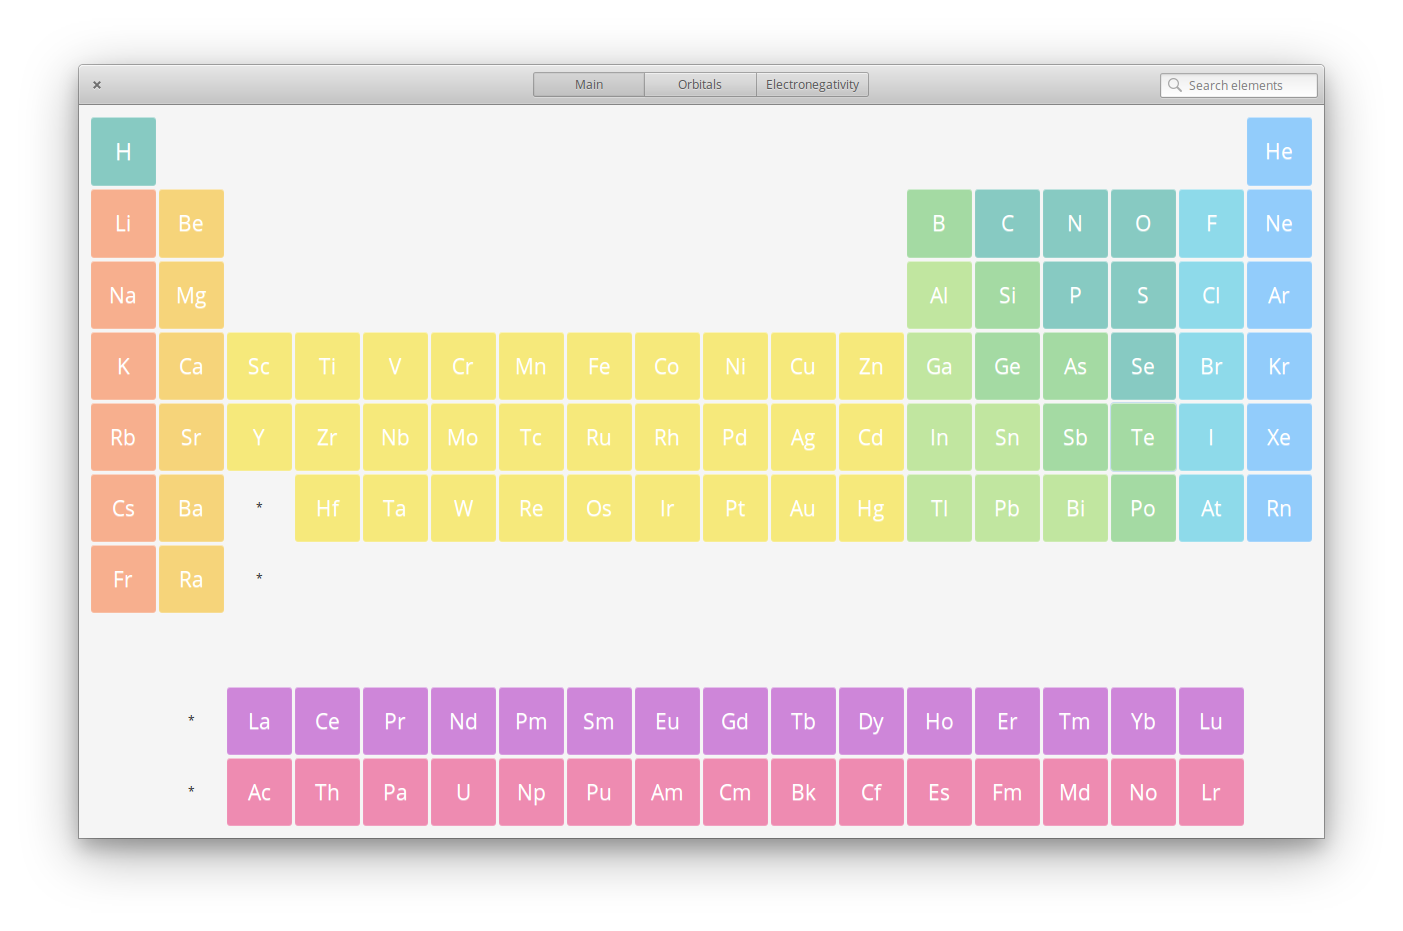
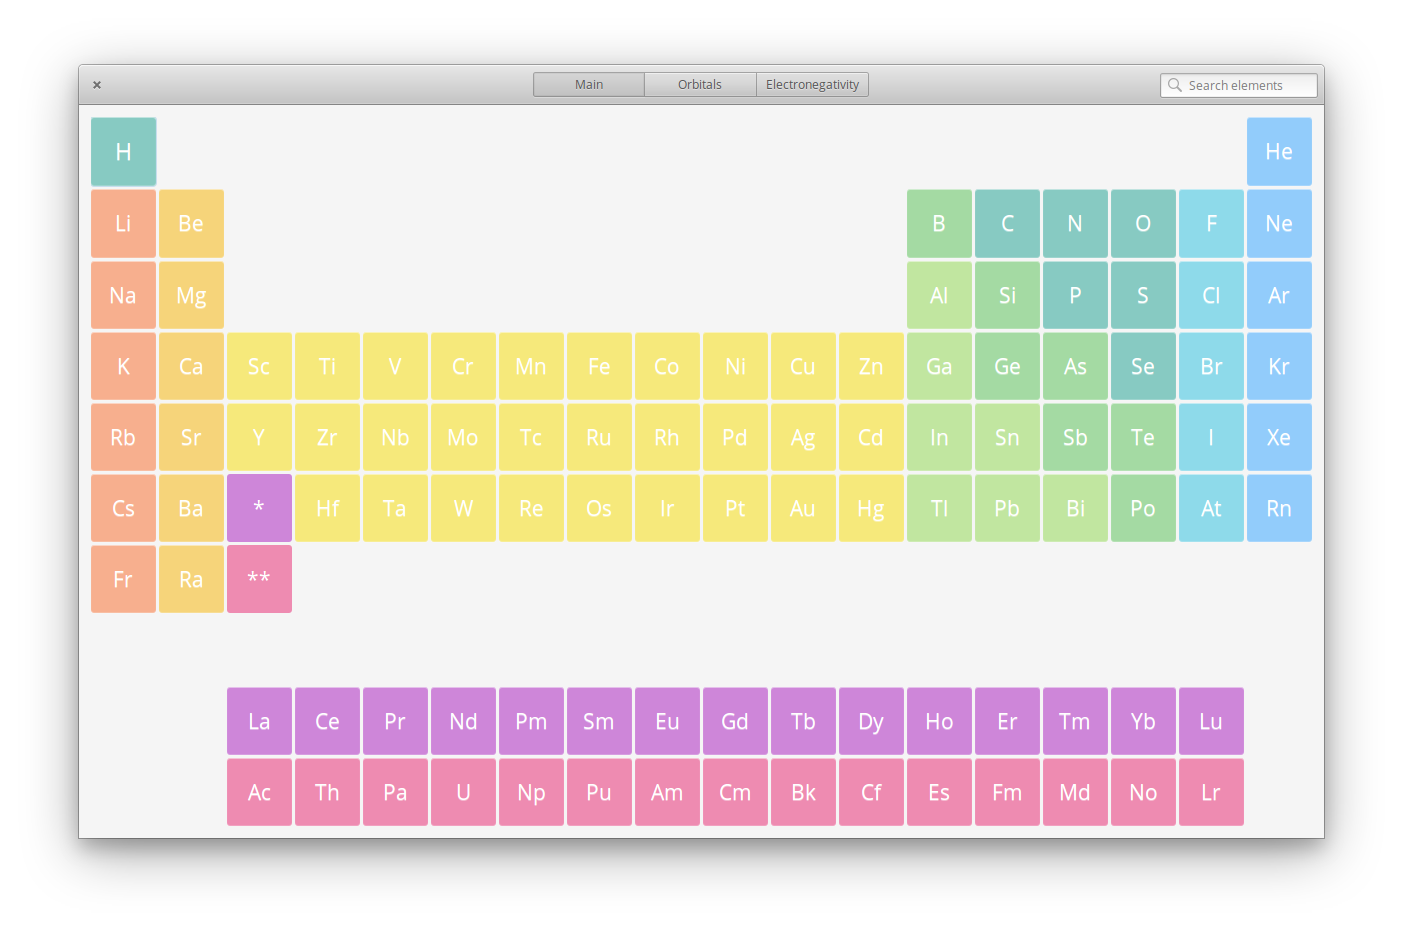
Add style

Changed region(s): [[0.1532, 0.4984, 0.2145, 0.6853]]

diff --git a/data/app.css b/data/app.css
@@ -122,6 +122,24 @@
         background : rgba(238, 139, 177, 1);
     }
 
+    .label.xlantanid {
+        border : 0px;
+        font-size : 16px;
+        color : white;
+        border-radius : 3px;
+        padding : 10px 10px;
+        background : rgba(206, 134, 217, 1);
+    }
+
+    .label.xxactinid {
+        border : 0px;
+        font-size : 16px;
+        color : white;
+        border-radius : 3px;
+        padding : 10px 10px;
+        background : rgba(238, 139, 177, 1);
+    }
+
     /***************
      *   Orbital   *
      **************/
